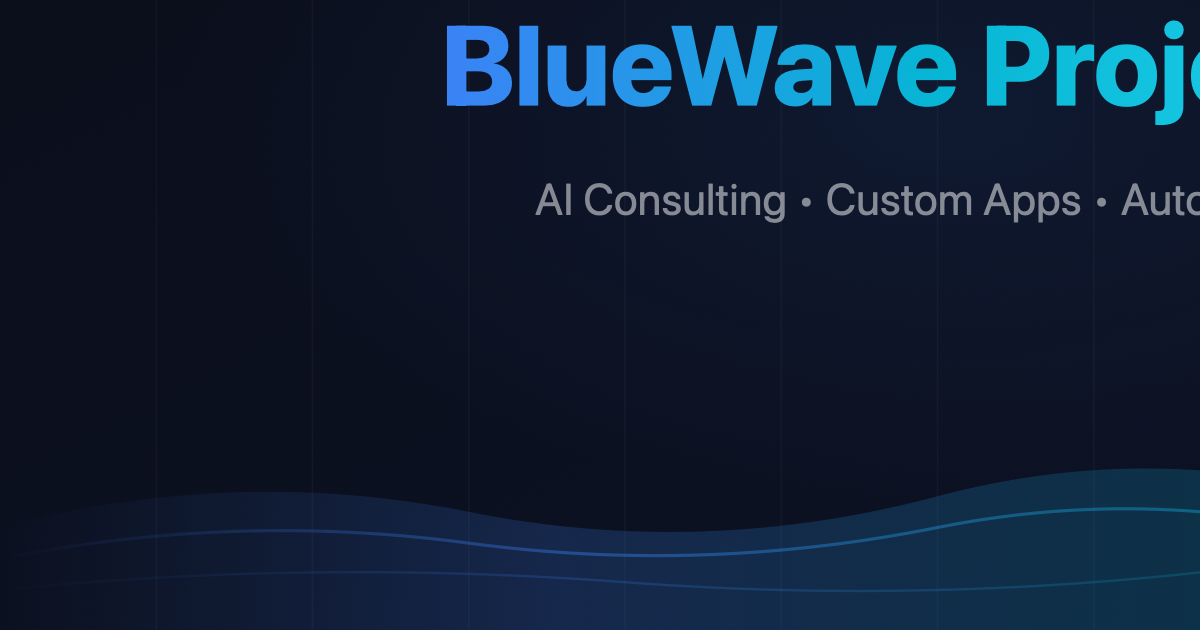
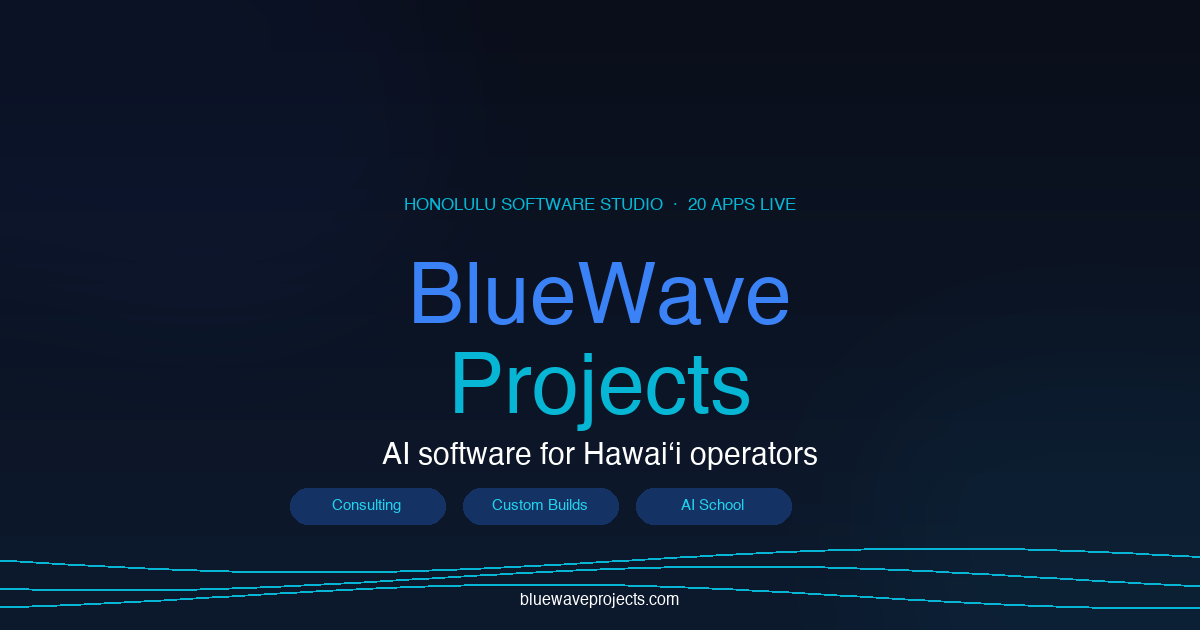
fix: /work bridge to /hire + new OG image aligned with Hawai'i operator vertical
- /work: amber recruiter banner now links "Hire the studio →" to /hire so
  studio prospects landing on the wrong page have a one-click escape
- og-default.png: regenerated 1200x630 with new copy ("AI software for
  Hawai'i operators") replacing old "AI Consulting · Custom Apps · Automation"
  — every link preview on Slack/iMessage/Twitter now matches the homepage

diff --git a/src/app/work/page.tsx b/src/app/work/page.tsx
@@ -92,9 +92,11 @@ export default function WorkPage() {
           </div>
 
           <div>
-            <div className="inline-flex items-center gap-2 px-4 py-2 rounded-full bg-amber-500/15 border border-amber-400/40 text-sm text-amber-200 mb-3" title="This page is John's personal résumé. For studio engagements see bluewaveprojects.com or /booking.">
+            <div className="inline-flex items-center gap-2 px-4 py-2 rounded-full bg-amber-500/15 border border-amber-400/40 text-sm text-amber-200 mb-3">
               <span className="text-xs uppercase tracking-wider font-bold">For recruiters</span>
-              <span className="text-amber-100/70">— personal résumé, not the studio's services page</span>
+              <span className="text-amber-100/70">— personal résumé, not the studio&apos;s services page.{" "}
+                <a href="/hire" className="underline underline-offset-2 hover:text-white transition-colors">Hire the studio →</a>
+              </span>
             </div>
             <div className="inline-flex items-center gap-2 px-4 py-2 rounded-full glass text-sm text-white/60 mb-6 ml-2">
               <span className="w-2 h-2 rounded-full bg-emerald-400 animate-pulse" />